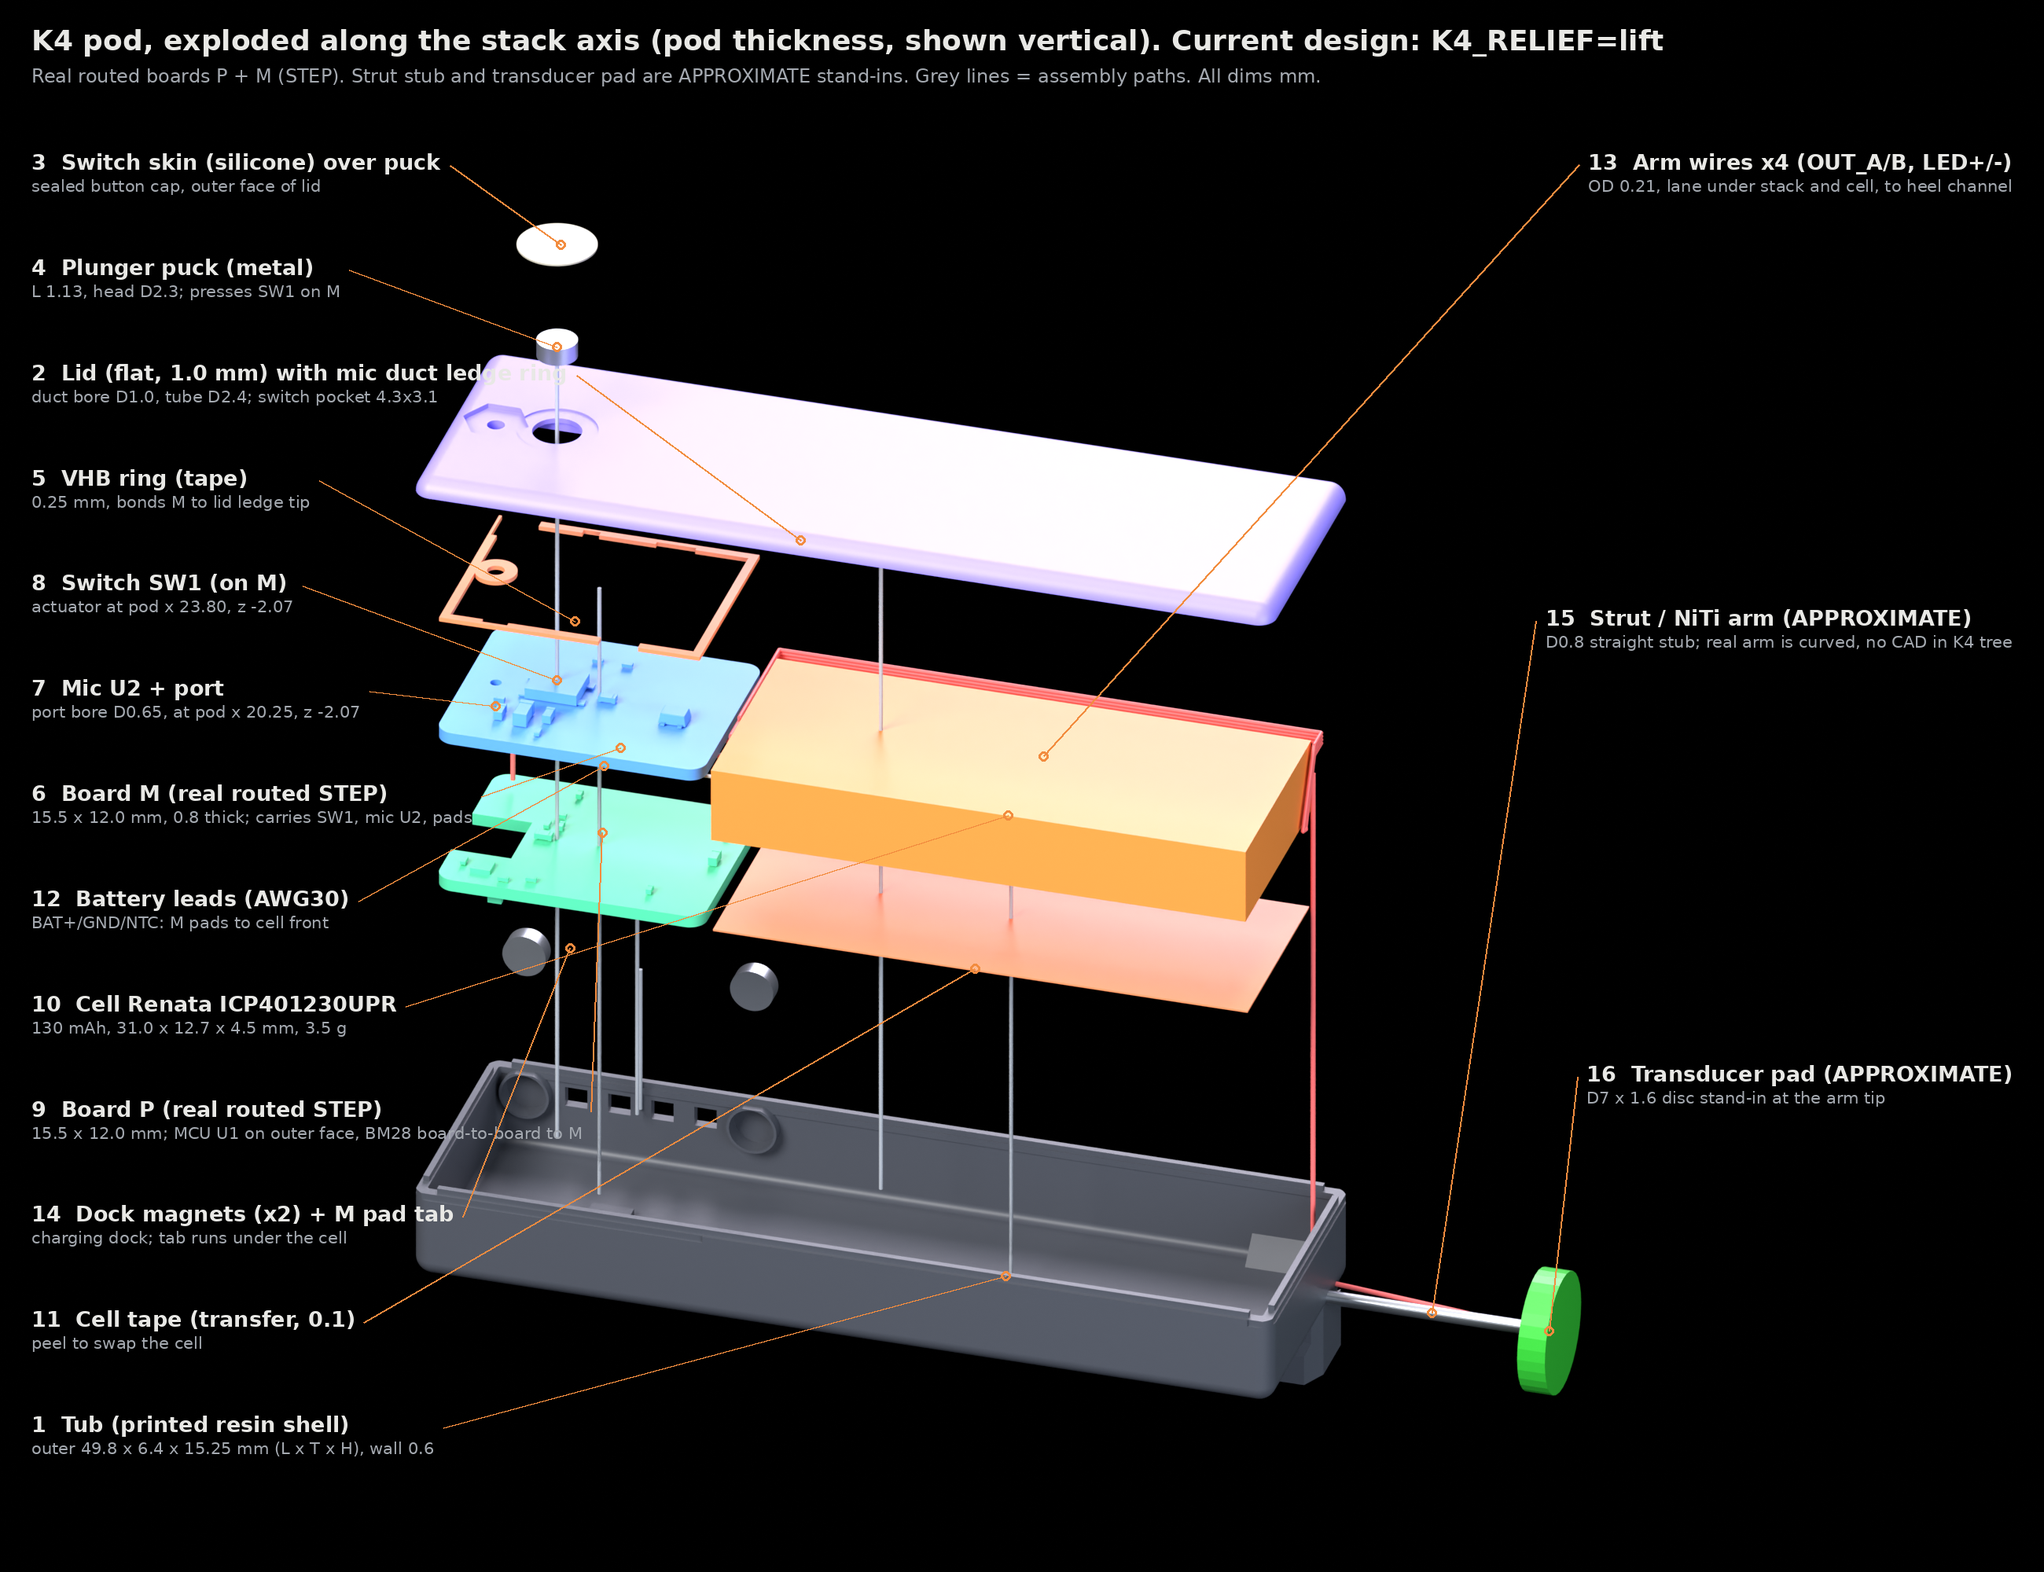
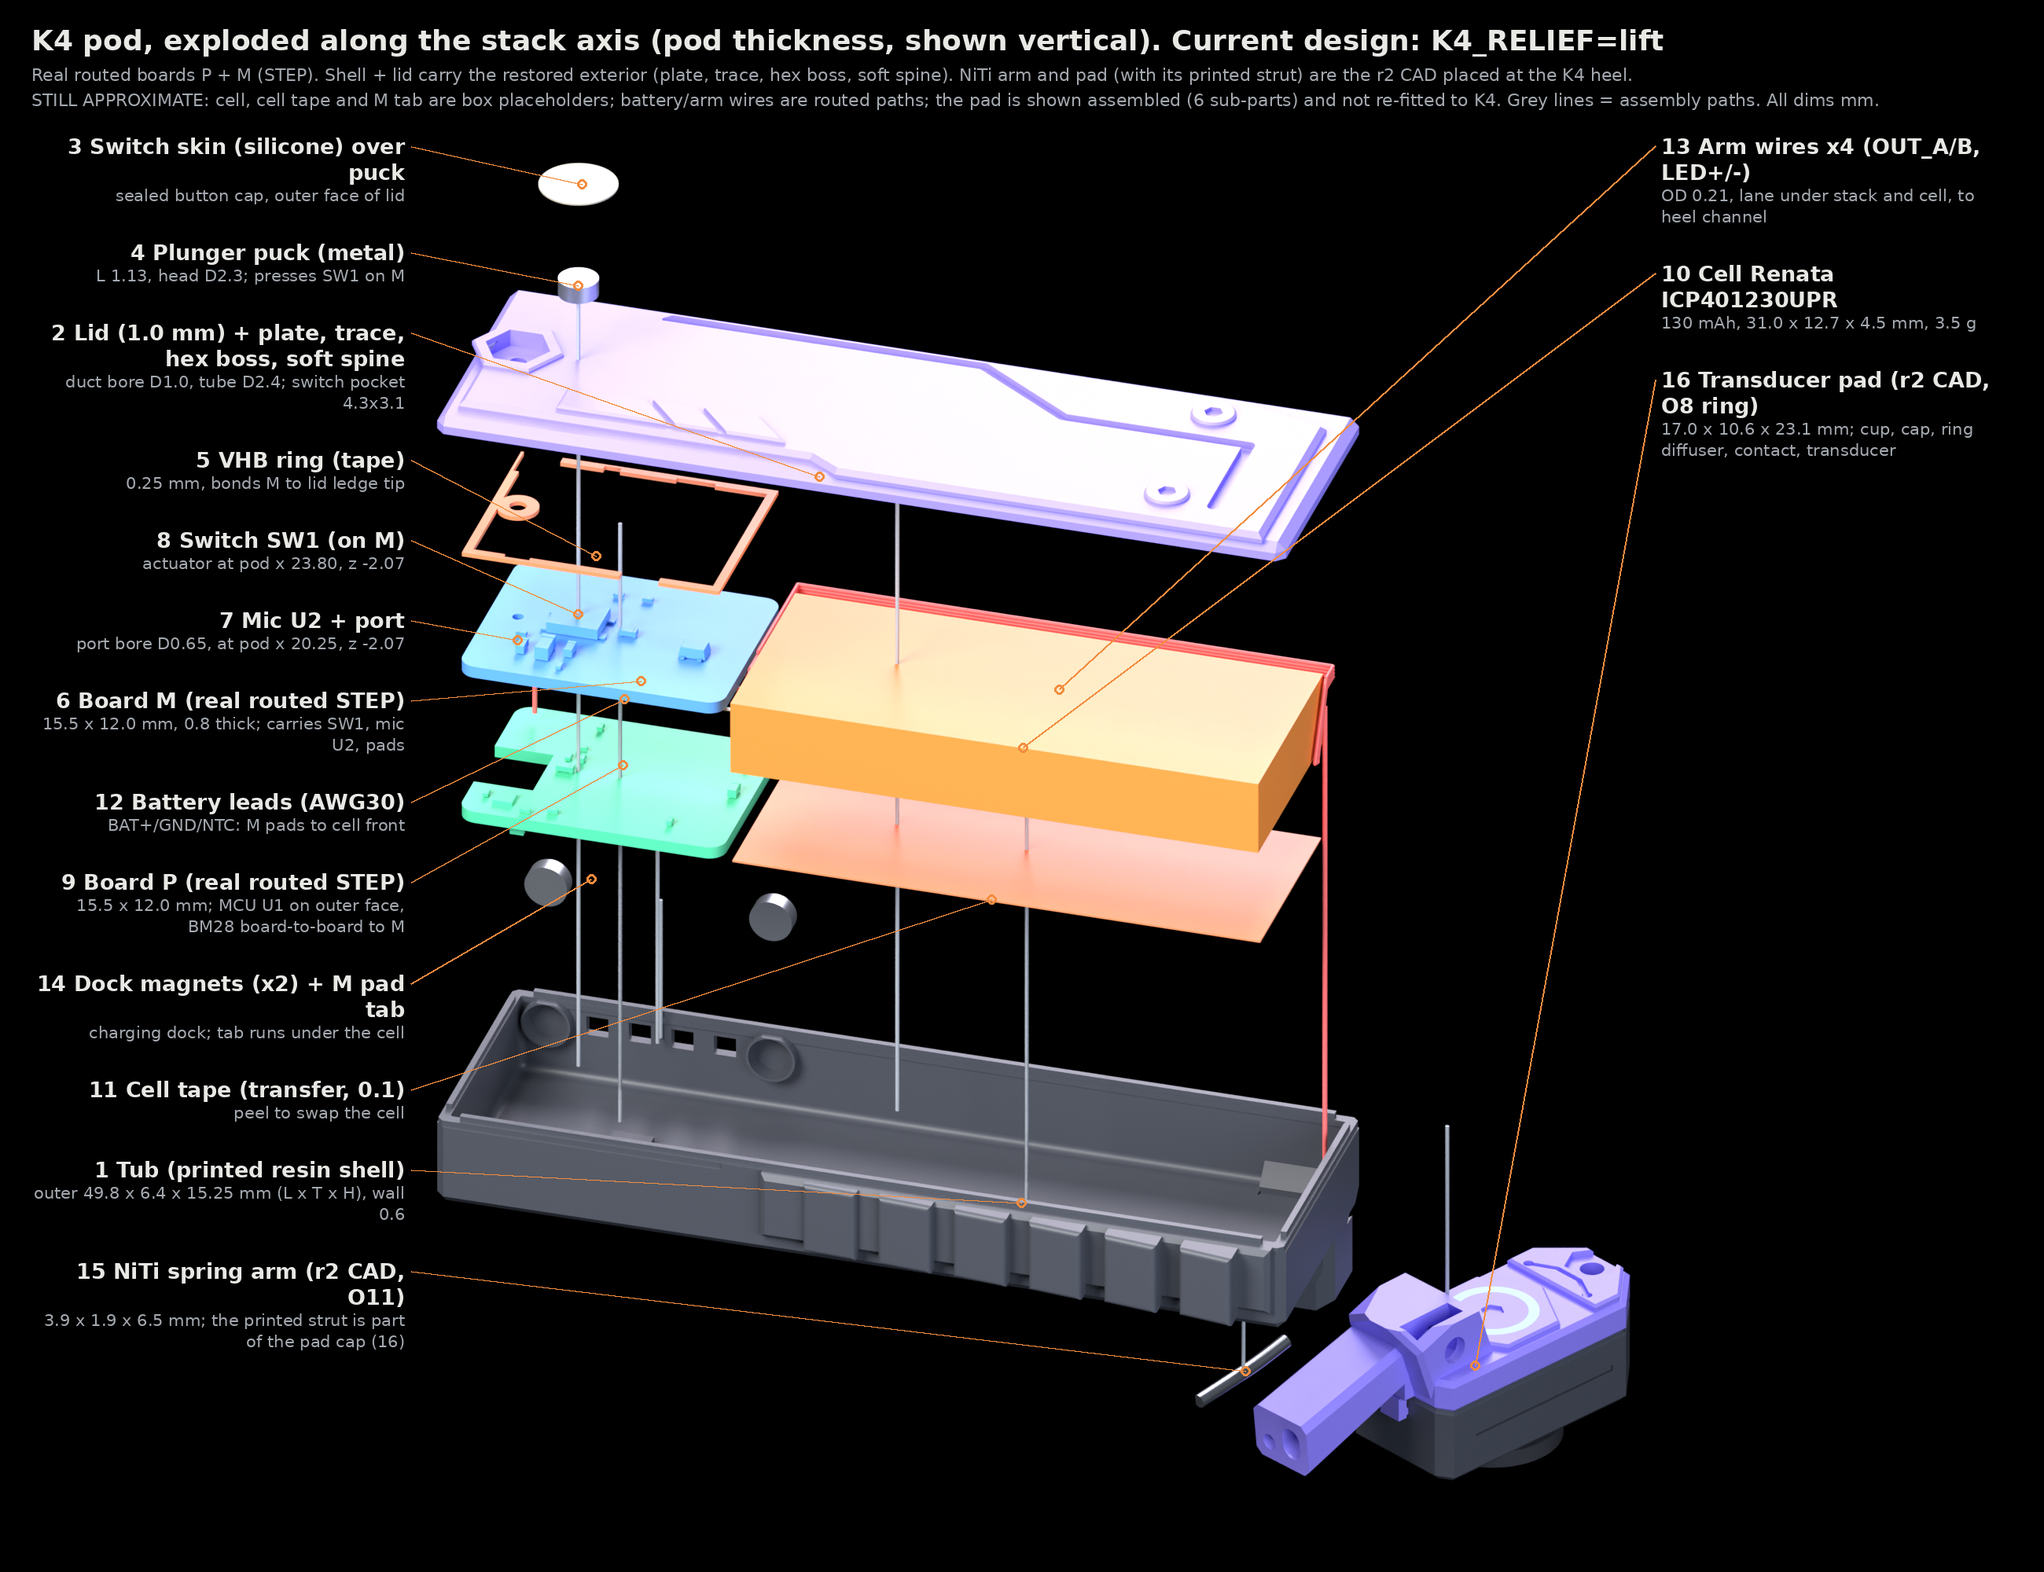
K4 exploded v2: restored exterior shell+lid (soft spine), r2 NiTi arm + pad CAD at heel, collision-free labels
Claude-Session: https://claude.ai/code/session_01Wg997D6KFs8bxoAH56jZZJ

diff --git a/hw/mech/render_k4_exploded.py b/hw/mech/render_k4_exploded.py
@@ -1,5 +1,5 @@
 """Full exploded view of the CURRENT K4 pod (K4_RELIEF=lift default): tub, lid, cell, real routed boards P + M, switch puck + skin, VHB/tape, dock magnets + M tab,
-battery/arm wires, plus an APPROXIMATE strut stub + transducer pad (no CAD exists for them in the K4 tree). Explode along the stack axis (pod Y = thickness, shown vertical).
+battery/arm wires, plus the r2 strut arm + transducer pad CAD (out/k4final); tub/lid from out/k4s_lift_soft (needs K4_SPINE=soft K4_RELIEF=lift shell_k4.py). Explode along the stack axis (pod Y = thickness, shown vertical).
     systemd-run --user --scope --quiet -p MemoryMax=3G -p MemorySwapMax=0 ~/.claude-shared/board/tools/blender-safe.sh --timeout 900 -- -b -P hw/mech/render_k4_exploded.py
 Needs hw/mech/out/k4r_lift (shell_k4.py + k4_real_boards.py). -> docs/diagrams/k4-review/exploded-full.png (labels composited with PIL).
 """
@@ -10,9 +10,11 @@ sys.path.insert(0, str(HERE)); sys.path.insert(0, "/home/hrafnavalkyrja/Desktop/
 import dims_k4 as K
 OUT = HERE.parent.parent / "docs" / "diagrams" / "k4-review" / "exploded-full.png"
 D = HERE / "out" / ("k4r_lift" if K.RELIEF == "lift" else "k4r")
+FIN = HERE / "out" / "k4final"          # r2 strut + pad CAD in the K4 frame
+DS = HERE / "out" / "k4s_lift_soft"       # restored exterior: shell_k4 K4_SPINE=soft
 W, Hh = 2600, 2000
 # explode offsets along pod +Y (mm); cell, wires ride with M so their joints stay readable
-OFF = dict(tub=0, dock_mags=9, m_tab=15, board_P=22, ctape=24, board_M=30, cell=30, bat_wires=30, arm_wires=30, vhb=37, lid=45, puck=51, skin=57)
+OFF = dict(tub=0, dock_mags=9, m_tab=15, board_P=22, ctape=24, board_M=30, cell=30, bat_wires=30, arm_wires=30, vhb=37, lid=45, puck=51, skin=57, strut=-9, xdcr=-16)
 HEX = dict(tub="#4a4d55", lid="#8d7ff0", board_M="#5b9ff2", board_P="#52d39e", cell="#f28c3f", bat_wires="#e8e8e5", arm_wires="#ff6d6c", dock_mags="#a4a9b0",
            m_tab="#a19d8d", vhb="#f58a5c", ctape="#f58a5c", skin="#a19d8d", puck="#a4a9b0", strut="#a4a9b0", xdcr="#35b535")
 
@@ -38,18 +40,24 @@ def main():
         bpy.context.view_layer.update(); vs = [o.matrix_local @ Vector(c) for c in o.bound_box]
         bbox[n] = (Vector((min(v.x for v in vs), min(v.y for v in vs), min(v.z for v in vs))), Vector((max(v.x for v in vs), max(v.y for v in vs), max(v.z for v in vs))))
         objs[n] = o
+    def imp(path):
+        bpy.ops.wm.stl_import(filepath=str(path), global_scale=0.001); return bpy.context.selected_objects[0]
     for n in OFF:
-        bpy.ops.wm.stl_import(filepath=str(D / f"{n}.stl"), global_scale=0.001)
-        o = bpy.context.selected_objects[0]
+        if n in ("strut", "xdcr"): continue
+        o = imp((DS if n in ("tub", "lid") else D) / f"{n}.stl")
         m = {"dock_mags": 0.35, "puck": 0.35}.get(n, 0.45)
         reg(n, o, HEX[n], rough=m, metal=0.8 if n in ("dock_mags", "puck") else 0.0)
         o.data.polygons.foreach_set("use_smooth", [False] * len(o.data.polygons))
-    # approximate strut + transducer pad (heel mouth HEEL_EXIT, exits rear X1)
     hx, hy, hz = K.HEEL_EXIT
-    bpy.ops.mesh.primitive_cylinder_add(radius=0.0004, depth=0.012, location=((K.X1 + 6.0) * 0.001, hy * 0.001, hz * 0.001), rotation=(0, math.pi / 2, 0))
-    reg("strut", bpy.context.object, HEX["strut"], rough=0.3, metal=0.9)
-    bpy.ops.mesh.primitive_cylinder_add(radius=0.0035, depth=0.0016, location=((K.X1 + 12.8) * 0.001, hy * 0.001, hz * 0.001), rotation=(0, math.pi / 2, 0))
-    reg("xdcr", bpy.context.object, HEX["xdcr"], rough=0.4)
+    # r2 strut arm (niti.stl, O11) + r2 transducer pad (hex/ring pad CAD, O8), same K4-frame files as exterior-old-vs-new.png
+    reg("strut", imp(FIN / "niti.stl"), HEX["strut"], rough=0.3, metal=0.9)
+    PADP = dict(pad_cup="#4a4d55", pad_cap="#8d7ff0", contact="#3a3a3f", diffuser="#9fd6ff", transducer="#35b535", pad_board="#52d39e")
+    lo_, hi_ = None, None
+    for k, hc in PADP.items():
+        o = imp(FIN / f"{k}.stl"); o.name = k; o.data.materials.append(mat(k, hc, 0.4)); o.parent = root; o.location.y += OFF["xdcr"] * 0.001; objs[k] = o
+    bpy.context.view_layer.update()
+    vs = [objs[k].matrix_local @ Vector(c) for k in PADP for c in objs[k].bound_box]
+    bbox["xdcr"] = (Vector((min(v.x for v in vs), min(v.y for v in vs), min(v.z for v in vs))), Vector((max(v.x for v in vs), max(v.y for v in vs), max(v.z for v in vs))))
     # assembly tie lines (home -> exploded) through each part's bbox centre, plus the arm-wire joints
     def line(a, b, hexc="#a4a9b0", r=0.00011):
         a, b = Vector(a), Vector(b); d = b - a
@@ -69,7 +77,6 @@ def main():
     line((pe[0], bbox["board_P"][1].y, pe[2]), (pe[0], pe[1], pe[2]), "#ff6d6c", 0.00014)
     he = vs[vs[:, 0] > vs[:, 0].max() - 0.0006].mean(0)
     line((he[0], hy * 0.001, he[2]), (he[0], he[1], he[2]), "#ff6d6c", 0.00014)
-    line((he[0], hy * 0.001, he[2]), ((K.X1 + 12.0) * 0.001, hy * 0.001, hz * 0.001), "#ff6d6c", 0.00014)
     # lighting + camera (black world, Standard view transform)
     s.world = bpy.data.worlds.new("w"); s.world.use_nodes = True
     bg = s.world.node_tree.nodes["Background"]; bg.inputs["Color"].default_value = (0, 0, 0, 1); bg.inputs["Strength"].default_value = 0.0
@@ -91,11 +98,11 @@ def main():
     def proj(p):
         q = world_to_camera_view(s, co, p); return Vector((q.x * W, (1 - q.y) * Hh))
     bpy.context.view_layer.update()
-    pts = [proj(v) for v in allv] + [proj(root.matrix_world @ Vector((x, 0, 0))) for x in ((K.X1 + 12.8) * 0.001,)]
+    pts = [proj(v) for v in allv]
     xs = [p.x for p in pts]; ys = [p.y for p in pts]
     for _ in range(2):   # fit the pod into the central ~52 % of the width, ~84 % of the height
         ex, ey = (max(xs) - min(xs)) / W, (max(ys) - min(ys)) / Hh
-        cam.ortho_scale *= max(ex / 0.52, ey / 0.82)
+        cam.ortho_scale *= max(ex / 0.50, ey / 0.82)
         bpy.context.view_layer.update()
         pts = [proj(v) for v in allv]; xs = [p.x for p in pts]; ys = [p.y for p in pts]
         sh = ((min(xs) + max(xs)) / 2 - W / 2) / W; shy = ((min(ys) + max(ys)) / 2 - Hh / 2) / Hh
@@ -111,10 +118,11 @@ def main():
     bm, bp = bbox["board_M"], bbox["board_P"]
     def dims(n):
         lo, hi = bbox[n]; return [(hi.x - lo.x) * 1000, (hi.y - lo.y) * 1000, (hi.z - lo.z) * 1000]
+    sx, sy, sz = dims("strut"); qx, qy, qz = dims("xdcr")
     mL, mT, mH = dims("board_M"); pL, pT, pH = dims("board_P")
     L = [
         ("1  Tub (printed resin shell)", f"outer {K.L:.1f} x {K.T:.1f} x {K.H:.2f} mm (L x T x H), wall {K.WALL}", A("tub", 52, 10.0, K.Z1 - 0.3)),
-        ("2  Lid (flat, 1.0 mm) with mic duct ledge ring", f"duct bore D{K.DUCT_D}, tube D{K.DUCT_TUBE_D}; switch pocket {K.POCKET['dx']}x{K.POCKET['dz']}", A("lid", 40, 10.2, 4.8)),
+        ("2  Lid (1.0 mm) + plate, trace, hex boss, soft spine", f"duct bore D{K.DUCT_D}, tube D{K.DUCT_TUBE_D}; switch pocket {K.POCKET['dx']}x{K.POCKET['dz']}", A("lid", 40, 10.2, 4.8)),
         ("3  Switch skin (silicone) over puck", "sealed button cap, outer face of lid", A("skin", 24, 10.65, -2.1)),
         ("4  Plunger puck (metal)", f"L {K.PUCK_L:.2f}, head D{K.PUCK_D}; presses SW1 on M", A("puck", 23.8, 10.0, -2.1)),
         ("5  VHB ring (tape)", f"{K.VHB_T} mm, bonds M to lid ledge tip", A("vhb", 26, 8.9, 1.8)),
@@ -127,36 +135,93 @@ def main():
         ("12  Battery leads (AWG30)", "BAT+/GND/NTC: M pads to cell front", A("bat_wires", 28, 7.5, 2.9)),
         ("13  Arm wires x4 (OUT_A/B, LED+/-)", f"OD {K.WIRE_OD}, lane under stack and cell, to heel channel", A("arm_wires", 50, 5.2, -8.85)),
         ("14  Dock magnets (x2) + M pad tab", "charging dock; tab runs under the cell", A("dock_mags", 25, 9.6, -9.0)),
-        ("15  Strut / NiTi arm (APPROXIMATE)", "D0.8 straight stub; real arm is curved, no CAD in K4 tree", A("strut", K.X1 + 6, hy, hz)),
-        ("16  Transducer pad (APPROXIMATE)", "D7 x 1.6 disc stand-in at the arm tip", A("xdcr", K.X1 + 12.8, hy, hz)),
+        ("15  NiTi spring arm (r2 CAD, O11)", f"{sx:.1f} x {sy:.1f} x {sz:.1f} mm; the printed strut is part of the pad cap (16)", A("strut", 61.2, 2.0, -8.0)),
+        ("16  Transducer pad (r2 CAD, O8 ring)", f"{qx:.1f} x {qy:.1f} x {qz:.1f} mm; cup, cap, ring diffuser, contact, transducer", A("xdcr", 70.5, 3.0, -22.0)),
     ]
     # fix label 14 anchor to the tab / magnets (m_tab offset differs)
     L[13] = (L[13][0], L[13][1], A("dock_mags", 22.5, 9.0, -9.0))
     json.dump(dict(L=[(t, sb, a.x, a.y) for t, sb, a in L], tmp=tmp, pts=[(p.x, p.y) for p in pts]), open(str(OUT.parent / "_exploded_lbl.json"), "w"))
 
 def composite():
-    from collections import namedtuple
-    P = namedtuple("P", "x y")
-    j = json.load(open(str(OUT.parent / "_exploded_lbl.json"))); tmp = j["tmp"]
-    L = [(t, sb, P(x, y)) for t, sb, x, y in j["L"]]; pts = [P(*p) for p in j["pts"]]
+    import random
+    import numpy as np
     from PIL import Image, ImageDraw, ImageFont
+    j = json.load(open(str(OUT.parent / "_exploded_lbl.json"))); tmp = j["tmp"]
     im = Image.open(tmp).convert("RGB"); d = ImageDraw.Draw(im)
     f = lambda sz, b=False: ImageFont.truetype("/usr/share/fonts/truetype/dejavu/DejaVuSans%s.ttf" % ("-Bold" if b else ""), sz)
-    xs = [p.x for p in pts]; mid = (min(xs) + max(xs)) / 2
-    side = {"l": [], "r": []}
-    for t, sub, a in L: side["l" if a.x < mid else "r"].append((t, sub, a))
-    for k, items in side.items():
-        items.sort(key=lambda it: it[2].y)
-        n = len(items); top, bot = 170, im.height - 90; step = (bot - top) / max(n, 1)
-        for i, (t, sub, a) in enumerate(items):
-            y = top + step * i + 20; x0 = 40 if k == "l" else im.width - 40
-            tw = max(d.textlength(t, f(27, True)), d.textlength(sub, f(21)))
-            xl = x0 if k == "l" else x0 - tw
-            d.text((xl, y), t, fill=(232, 232, 229), font=f(27, True)); d.text((xl, y + 34), sub, fill=(164, 169, 176), font=f(21))
-            ex = xl + tw + 12 if k == "l" else xl - 12
-            d.line([(ex, y + 20), (a.x, a.y)], fill=(242, 140, 63), width=2); d.ellipse([a.x - 6, a.y - 6, a.x + 6, a.y + 6], outline=(242, 140, 63), width=3)
+    a_ = np.asarray(im).max(2) > 14                      # geometry mask (black world)
+    cols = np.where(a_.any(0))[0]; gx0, gx1 = int(cols.min()), int(cols.max())
+    colL, colR = gx0 - 40, gx1 + 40                      # all text stays outside [colL, colR]; leaders start at the column edge
+    wl, wr = colL - 40, im.width - colR - 40
+    def wrap(txt, fnt, w):
+        out, cur = [], ""
+        for wd in txt.split():
+            t = (cur + " " + wd).strip()
+            if d.textlength(t, fnt) <= w or not cur: cur = t
+            else: out.append(cur); cur = wd
+        return out + [cur]
+    items = []
+    for t, sb, x, y in j["L"]:
+        items.append(dict(t=t, sb=sb, a=(x, y)))
+    def block(it, w):
+        tl = wrap(it["t"], f(27, True), w); sl = wrap(it["sb"], f(21), w)
+        return tl, sl, len(tl) * 33 + len(sl) * 27 + 8
+    def layout(assign):                                  # assign: (left list, right list) of item idx, in slot order
+        res = {}
+        for side, lst in zip("lr", assign):
+            w = wl if side == "l" else wr
+            hs = [block(items[i], w)[2] for i in lst]; top, bot = 170, im.height - 60
+            gap = min(34, (bot - top - sum(hs)) / max(len(lst) - 1, 1)); y = top
+            for i, h in zip(lst, hs):
+                res[i] = (side, y, h); y += h + gap
+        return res
+    def leaders(res):
+        L = {}
+        for i, (side, y, h) in res.items():
+            tl, sl, _ = block(items[i], wl if side == "l" else wr)
+            L[i] = ((colL if side == "l" else colR), y + 16, items[i]["a"])
+        return L
+    def inter(p, q, r, s_):
+        def o(a, b, c): return (b[0]-a[0])*(c[1]-a[1]) - (b[1]-a[1])*(c[0]-a[0])
+        return o(p, q, r) * o(p, q, s_) < 0 and o(r, s_, p) * o(r, s_, q) < 0
+    def cost(assign):
+        res = layout(assign)
+        if any(y + h > im.height - 20 for _, y, h in res.values()): return 1e12
+        L = leaders(res); ks = list(L); c = 0
+        for m in range(len(ks)):
+            (x0, y0, a0) = L[ks[m]]; c += ((a0[0]-x0)**2 + (a0[1]-y0)**2) ** 0.5
+            for n in range(m + 1, len(ks)):
+                (x1, y1, a1) = L[ks[n]]
+                if inter((x0, y0), a0, (x1, y1), a1): c += 1e6
+        return c
+    mid = (gx0 + gx1) / 2
+    left = sorted([i for i, it in enumerate(items) if it["a"][0] < mid], key=lambda i: items[i]["a"][1])
+    right = sorted([i for i, it in enumerate(items) if it["a"][0] >= mid], key=lambda i: items[i]["a"][1])
+    best = (left, right); bc = cost(best); rnd = random.Random(3)
+    for _ in range(30000):
+        l, r = list(best[0]), list(best[1]); k = rnd.random()
+        if k < 0.5 and len(l) > 1: i, jx = rnd.sample(range(len(l)), 2); l[i], l[jx] = l[jx], l[i]
+        elif k < 0.8 and len(r) > 1: i, jx = rnd.sample(range(len(r)), 2); r[i], r[jx] = r[jx], r[i]
+        else:
+            if rnd.random() < 0.5 and l: v = l.pop(rnd.randrange(len(l))); r.insert(rnd.randrange(len(r) + 1), v)
+            elif r: v = r.pop(rnd.randrange(len(r))); l.insert(rnd.randrange(len(l) + 1), v)
+        c = cost((l, r))
+        if c < bc: best, bc = (l, r), c
+    print("leader cost", bc, "crossings", int(bc // 1e6), "geometry x", gx0, gx1)
+    res = layout(best); L = leaders(res); OR = (242, 140, 63)
+    for i, (side, y, h) in res.items():
+        tl, sl, _ = block(items[i], wl if side == "l" else wr); yy = y
+        xr = colL if side == "l" else colR
+        for ln in tl:
+            tx = (colL - d.textlength(ln, f(27, True))) if side == "l" else colR; d.text((tx, yy), ln, fill=(232, 232, 229), font=f(27, True)); yy += 33
+        for ln in sl:
+            tx = (colL - d.textlength(ln, f(21))) if side == "l" else colR; d.text((tx, yy), ln, fill=(164, 169, 176), font=f(21)); yy += 27
+        x0, y0, a = L[i]
+        d.line([(x0 + (8 if side == "l" else -8), y0), a], fill=OR, width=2); d.ellipse([a[0]-6, a[1]-6, a[0]+6, a[1]+6], outline=OR, width=3)
     d.text((40, 30), "K4 pod, exploded along the stack axis (pod thickness, shown vertical). Current design: K4_RELIEF=lift", fill=(232, 232, 229), font=f(36, True))
-    d.text((40, 82), "Real routed boards P + M (STEP). Strut stub and transducer pad are APPROXIMATE stand-ins. Grey lines = assembly paths. All dims mm.", fill=(164, 169, 176), font=f(24))
+    for k, ln in enumerate(["Real routed boards P + M (STEP). Shell + lid carry the restored exterior (plate, trace, hex boss, soft spine). NiTi arm and pad (with its printed strut) are the r2 CAD placed at the K4 heel.",
+                            "STILL APPROXIMATE: cell, cell tape and M tab are box placeholders; battery/arm wires are routed paths; the pad is shown assembled (6 sub-parts) and not re-fitted to K4. Grey lines = assembly paths. All dims mm."]):
+        d.text((40, 82 + 32 * k), ln, fill=(164, 169, 176), font=f(22))
     im.save(OUT, optimize=True); Path(tmp).unlink(); Path(OUT.parent / "_exploded_lbl.json").unlink()
 
 if __name__ == "__main__" and "--composite" in sys.argv:
